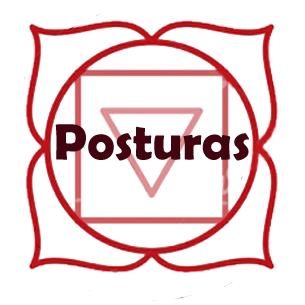
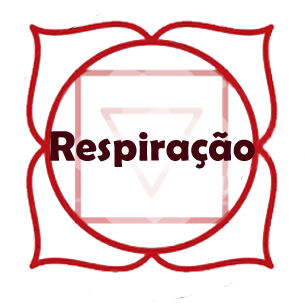
add de conteúdo

Changed region(s): [[0.1475, 0.2066, 0.8557, 0.7377], [0.177, 0.3246, 0.2066, 0.3541]]

diff --git a/www/templates/glossario.html b/www/templates/glossario.html
@@ -1,13 +1,29 @@
 <ion-view view-title="Glossário">
   <ion-content id="buda" class = "pagina-glossario" >
 
-  <h2>Glossário</h2>
-          <div class="list list-inset">
+    <h2>Glossário</h2>
+    <div class="list list-inset">
       <label class="item item-input">
-      <i class="icon ion-search placeholder-icon"></i>
-      <input type="text" placeholder="procure">
-    </label>
-
+        <i class="icon ion-search placeholder-icon"></i>
+        <input type="text" placeholder="procure">
+      </label>
     </div>
+
+    <div class="termos">
+      <p>
+      <p>  Asanas:  Quando falamos em Yoga a primeira imagem que nos vem a mente é  de alguém numa posição muito estranha que desafia as leis da gravidade. Cada postura que vês no Yoga é um Asana, ou seja, Asana são as posturas (ou posições) que vês os yogis ou as yoginis a fazer.
+      <p>  Chakras: Os primeiros Yogis falam-nos do sistema de energia humana. Para eles este sistema é composto por 7 centros de energia localizados ao longo da nossa coluna. Estes centros são chamados de Chakras. A sua ordem é Raiz, Sacral, Plexo Solar, Coração, Garganta, Terceiro Olho e a Coroa.
+      <p>  Mantra: A palavra Mantra significa em sânscrito instrumento para o pensamento [adequado] ( man = pensamento,  mente;  tra  = instrumento). Um Mantra é uma fórmula sonora que tem um significado, uma vibração, e tem como objectivo lembrar algo importante para o praticante.
+      <p>  Meditação: A meditação é o exercício utilizado para acalmar a mente. Neste, o Yogi observa os seus pensamentos e deixa-os fluir livremente, sem julgamento.
+      <p>  Namastê:  Namastê é um cumprimento utilizado na prática do Yoga. A sua tradução é: “O ser em mim, reconhece o ser em ti”.
+      <p>  OM: É Uma Longa Exalação Pronunciada Antes E Depois De Uma Prática De Yoga Ou Meditação. Este Som Simboliza A Vibração Do Universo E Tem Um Efeito Terapêutico Benéfico No Corpo E Na Mente.
+      <p>  Prana: No oriente existem vários sistemas de energia vital. Já deves ter ouvido falar,por exemplo, do Chi da cultura chinesa. No Yoga a energia vital absorvida através de exercícios de respiração é chamado de Prana.
+      <p>  Pranayama: O Pranayama é o sistema de respiração do Yoga praticado no final de uma sessão ou nas práticas individuais. Basicamente Pranayama está ligado à forma como respiras.
+      <p>  Sânscrito: Linguagem antiga da Índia usada na escrita dos textos originais do Yoga.
+      <p>  Shanti: É outro termo muitas vezes ouvido de quem já pratica yoga. A sua tradução é “Paz”.
+      <p>  Sutras: Os Sutras são textos clássicos escritos em sânscrito. Eles abordam toda a temática da prática do Yoga e dos ensinamentos para a vida.
+      <p>  Vinyasa: É a transição entre posturas sem quebrar o ritmo de respiração, criando um movimento fluido.
+      <p>  Yogi ou Yogini: Um Yogi é alguém que prática Yoga, se for mulher usamos o termo Yogini.
+          </div>
   </ion-content>
 </ion-view>

diff --git a/www/templates/postura.html b/www/templates/postura.html
@@ -1,5 +1,17 @@
-<ion-view view-title="Postura">
-  <ion-content id="fundo">
-    <h1>Postura</h1>
-  </ion-content>
-</ion-view>
+<ion-view view-title="Respiração">
+  <ion-content id="fundo" class = "pagina-glossario">
+    
+    <p>Respirar é um ato vital que nos acompanha desde o momento em nascemos até o nosso último suspiro de vida. O ser humano é capaz de passar dias sem comer, horas sem beber líquido, mas não suporta alguns minutos sem respirar, e mesmo assim não damos à respiração a devida importância que ela merece. Esse ato vital primordial passa despercebido no nosso dia-a-dia.
+      <p>A oxigenação do sangue que uma boa respiração proporciona é imprescindível para uma vida saudável. No Método DeRose trabalhamos a respiração como uma forma de aumentar a vitalidade e a consciência, além de administrar o stress, com técnicas de expansão da capacidade respiratória e captação de energia.
+        <p>Para aprimorar sua respiração, seguem algumas dicas:
+
+          <p></p>
+          <p> Sinta mais o toque do ar em suas narinas;
+
+            <p>A entrada do ar não acontece por uma força feita nas narinas. É a movimentação de músculos (abdominais, intercostais e torácicos) que faz o alento ir e vir.
+
+              <p>Comece treinando a respiração abdominal. Deitado, coloque as mãos no abdômen e sinta que ao inspirar seu abdômen se projeta para cima e ao expirar ele desce. Esta parte da respiração é responsável por cerca de 60% da nossa capacidade pulmonar, no entanto é desprezada por quase todas as pessoas.
+
+
+              </ion-content>
+            </ion-view>

diff --git a/www/templates/menu.html b/www/templates/menu.html
@@ -13,24 +13,27 @@
   </ion-side-menu-content>
 
   <ion-side-menu side="left">
-    <ion-header-bar class="bar-stable">
-      <h1 class="title">Yoga</h1>
+    <ion-header-bar class="bar-calm">
+      <h1 class="title">Menu Yogi</h1>
     </ion-header-bar>
     <ion-content>
-      <ion-list>
-        <ion-item menu-close ng-click="login()">
-          Login
-        </ion-item>
-        <ion-item menu-close href="#/app/search">
-          Search
-        </ion-item>
-        <ion-item menu-close href="#/app/browse">
-          Browse
-        </ion-item>
-        <ion-item menu-close href="#/app/home">
-          Home
-        </ion-item>
-      </ion-list>
+      <div class="parte1">
+        <ion-list>
+          <ion-item menu-close ng-click="login()">
+            Login
+          </ion-item>
+          <ion-item menu-close href="#/app/search">
+            Meu perfil
+          </ion-item>
+          <ion-item menu-close href="#/app/home">
+            Cadastrar
+          </ion-item>
+        </ion-list>
+      </div>
+      <div class="bar bar-footer bar-calm">
+        <div class="title">Cadastrar</div>
+      </div>
     </ion-content>
   </ion-side-menu>
+
 </ion-side-menus>

diff --git a/www/templates/tutorial.html b/www/templates/tutorial.html
@@ -1,5 +1,11 @@
 <ion-view view-title="Tutorial">
-  <ion-content>
-    <h1>Tutorial</h1>
+  <ion-content class="pagina-tutorial">
+    <div class="card">
+  <div class="item item-text-wrap">
+    ÁSANA: técnicas corporais, as posições do Yôga. Para ser um ásana, uma posição deve ser estável, confortável, com a respiração consciente, profunda e ritmada,e uma atitude interior que envolva a localização da
+consciência, a mentalização de imagens, cores ou sons e muito sentimento.
+  </div>
+</div>
+    <img src="../img/poses.jpg" alt="poses">
   </ion-content>
 </ion-view>

diff --git a/www/css/style.css b/www/css/style.css
@@ -2,7 +2,6 @@ ng-map{
   height: 600px;
 }
 
-
 .pagina-home img{
   width: 50%;
   margin: 20px auto;
@@ -28,10 +27,22 @@ ng-map{
 .pagina-glossario{
   width: 100%;
   text-align: center;
+  padding: 20px;
+}
+
+.termos{
+  text-align: center;
+  font-size: 15px;
+  font-family: sans-serif;
 }
 
 .pagina-videos h3{
   text-align: center;
+}
+
+.pagina-tutorial img{
+  width: 100%;
+  padding-top: 10px;
 }
 
 #buda{
